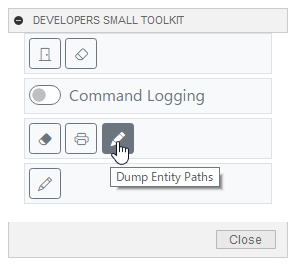
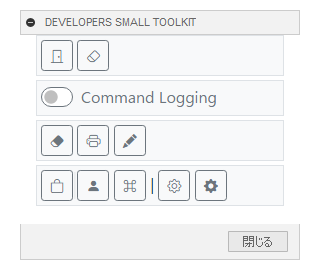
add open folders command

diff --git a/Developers_Small_ToolKit/index.html b/Developers_Small_ToolKit/index.html
@@ -24,7 +24,6 @@
             data-bs-toggle="tooltip" data-bs-placement="top" title="Close All Docs" onclick="closeDocs()">
             <i class="bi bi-door-closed"></i>
           </button>
-
           <!-- remove Custom Graphics -->
           <button class="btn btn-outline-secondary btn-sm customBtn" type="button" id="closeDocs"
             data-bs-toggle="tooltip" data-bs-placement="top" title="Remove Custom Graphics" onclick="removeCG()">
@@ -67,15 +66,40 @@
             data-bs-placement="top" title="Dump Entity Paths" onclick="dumpEntityPaths()">
             <i class="bi bi-pencil-fill"></i>
           </button>
+       
         </div>
       </div>
 
       <div class="col-12">
         <div class="p-1 border bg-light">
-          <!-- Dump Active Command Resource Folder -->
+          <!-- Open Cache Folder -->
           <button class="btn btn-outline-secondary btn-sm customBtn" type="button" data-bs-toggle="tooltip"
-            data-bs-placement="top" title="Dump Active Command Resource Folder" onclick="dumpResourceFolder()">
-            <i class="bi bi-pencil"></i>
+            data-bs-placement="top" title="Open Cache Folder" onclick="openCache()">
+            <i class="bi bi-bag"></i>
+          </button>
+
+          <!-- Open UserDirectory -->
+          <button class="btn btn-outline-secondary btn-sm customBtn" type="button" data-bs-toggle="tooltip"
+            data-bs-placement="top" title="Open User Directory" onclick="openUserDirectory()">
+            <i class="bi bi-person-fill"></i>
+          </button>
+
+          <!-- Open Active Command Resource Folder -->
+          <button class="btn btn-outline-secondary btn-sm customBtn" type="button" data-bs-toggle="tooltip"
+            data-bs-placement="top" title="Open Active Command Resource Folder" onclick="openResourceFolder()">
+            <i class="bi bi-command"></i>
+          </button>
+          |
+          <!-- Open CustomPost Folder -->
+          <button class="btn btn-outline-secondary btn-sm customBtn" type="button" data-bs-toggle="tooltip"
+            data-bs-placement="top" title="Open CustomPost Folder" onclick="openCustomPostFolder()">
+            <i class="bi bi-gear"></i>
+          </button>
+
+          <!-- Open InstallPost Folder -->
+          <button class="btn btn-outline-secondary btn-sm customBtn" type="button" data-bs-toggle="tooltip"
+            data-bs-placement="top" title="Open InstallPost Folder" onclick="openInstallPostFolder()">
+            <i class="bi bi-gear-fill"></i>
           </button>
         </div>
       </div>
@@ -92,6 +116,38 @@
 </body>
 
 <script>
+
+  // Open Cache Folder
+  function openCache() {
+    let args = {
+      value: true
+    }
+    adsk.fusionSendData("openCache", JSON.stringify(args))
+  }
+
+  // Open UserDirector
+  function openUserDirectory() {
+    let args = {
+      value: true
+    }
+    adsk.fusionSendData("openUserDirectory", JSON.stringify(args))
+  }
+
+  // Open InstallPost Folder
+  function openInstallPostFolder() {
+    let args = {
+      value: true
+    }
+    adsk.fusionSendData("openInstallPostFolder", JSON.stringify(args))
+  }
+
+  // Open CustomPost Folder
+  function openCustomPostFolder() {
+    let args = {
+      value: true
+    }
+    adsk.fusionSendData("openCustomPostFolder", JSON.stringify(args))
+  }
 
   // command log
   function commandLog() {
@@ -152,8 +208,8 @@
     adsk.fusionSendData("dumpEntityPaths", JSON.stringify(args))
   }
 
-  // Dump Active Command Resource Folder
-  function dumpResourceFolder() {
+  // Open Active Command Resource Folder
+  function openResourceFolder() {
     let args = {
       value: true
     }

diff --git a/Developers_Small_ToolKit/Developers_Small_ToolKit.py b/Developers_Small_ToolKit/Developers_Small_ToolKit.py
@@ -4,6 +4,10 @@ import adsk.fusion
 import traceback
 import json
 import math
+import pathlib
+import subprocess
+import os
+import platform
 
 handlers = []
 _app: adsk.core.Application = None
@@ -186,13 +190,107 @@ class MyHTMLEventHandler(adsk.core.HTMLEventHandler):
             elif htmlArgs.action == 'resourceFolder':
                 data = json.loads(htmlArgs.data)
                 if data['value']:
-                    dumpResourceFolder()
+                    openResourceFolder()
 
             elif htmlArgs.action == 'removeCG':
                 data = json.loads(htmlArgs.data)
                 if data['value']:
                     removeCG()
+
+            elif htmlArgs.action == 'openCustomPostFolder':
+                data = json.loads(htmlArgs.data)
+                if data['value']:
+                    openCustomPostFolder()
+
+            elif htmlArgs.action == 'openUserDirectory':
+                data = json.loads(htmlArgs.data)
+                if data['value']:
+                    openUserDirectory()
+
+            elif htmlArgs.action == 'openCache':
+                data = json.loads(htmlArgs.data)
+                if data['value']:
+                    openCache()
+
+            elif htmlArgs.action == 'openInstallPostFolder':
+                data = json.loads(htmlArgs.data)
+                if data['value']:
+                    openInstallPostFolder()
         except:
+            _ui.messageBox('Failed:\n{}'.format(traceback.format_exc()))
+
+def openCache():
+    global _app
+    _app.executeTextCommand(u'Cache.open')
+
+def openUserDirectory():
+    global _app
+    path = _app.executeTextCommand(u'Paths.UserDirectory')
+
+    openFolder(path)
+
+def openResourceFolder():
+    global _app, _ui
+    cmdDef = _ui.commandDefinitions.itemById(_ui.activeCommand)
+    if cmdDef:
+        try:
+            path = cmdDef.resourceFolder
+        except:
+            return
+
+    openFolder(path)
+
+def openInstallPostFolder():
+    global _app, _ui
+    try:
+        tmpPath = getPath('cloudCacheDirectory')
+        if not tmpPath:
+            return
+
+        postPath = pathlib.Path(tmpPath).parent / 'CAM' / 'cache' / 'posts'
+        if not postPath.exists():
+            return
+
+        openFolder(postPath)
+    except:
+        if _ui:
+            _ui.messageBox('Failed:\n{}'.format(traceback.format_exc()))
+
+def openCustomPostFolder():
+    global _app, _ui
+    try:
+        userPath = getPath('unbrandedUserDataDirectory')
+        if not userPath:
+            return
+
+        postPath = pathlib.Path(userPath).parent / 'Fusion 360 CAM' / 'Posts'
+        if not postPath.exists():
+            return
+
+        openFolder(postPath)
+    except:
+        if _ui:
+            _ui.messageBox('Failed:\n{}'.format(traceback.format_exc()))
+
+def getPath(key: str) -> str:
+    global _app
+    try:
+        paths = json.loads(_app.executeTextCommand(u'Paths.Get'))
+        return paths[key]
+
+    except:
+        return None
+
+def openFolder(path: str):
+    global _app, _ui
+    _app.log(str(path))
+    try:
+        if platform.system() == 'Windows':
+            os.startfile(str(path))
+        else:
+            subprocess.check_call(["open", "--", str(path)])
+    except:
+        if _ui:
             _ui.messageBox('Failed:\n{}'.format(traceback.format_exc()))
 
 

diff --git a/Developers_Small_ToolKit/README.md b/Developers_Small_ToolKit/README.md
@@ -32,10 +32,16 @@
 - Remove Custom Graphics: 全てのカスタムグラフィックスを削除します。
 - Command Logging: 実行されたコマンド名とコマンドIDを出力します。
     - Panel Information: コマンドのログと共にパネル情報を出力しますが、現在は正しくない情報を出力する可能性もあります。
-- Clear: 出力先をクリアします。
+- Window Clear: 出力先をクリアします。
 - Dump CommandDialog Info: 表示されているコマンドダイアログ情報を出力します。
 - Dump Entity Paths: 選択されているエンティティIDを出力します。(テキストコマンド用)
-- Dump Active Command Resource Folder: コマンドダイアログのリソースフォルダパスを出力します。
+
+- Open Cache Folder: ローカルキャッシュフォルダーを開きます。
+- Open User Directory: ユーザーディレクトリーを開きます。
+  - 'JSLoadedScriptsinfo'　が、登録されたスクリプト/アドイン管理ファイルです。
+- Open Active Command Resource Folder: 実行中のコマンドダイアログのリソースフォルダを開きます。
+- Open CustomPost Folder: カスタムされた製造ポストファイル(cps)のフォルダーを開きます。
+- Open InstallPost Folder: インストールされた製造ポストファイル(cps)のフォルダーを開きます。
 
 ## 注意 ：
 
